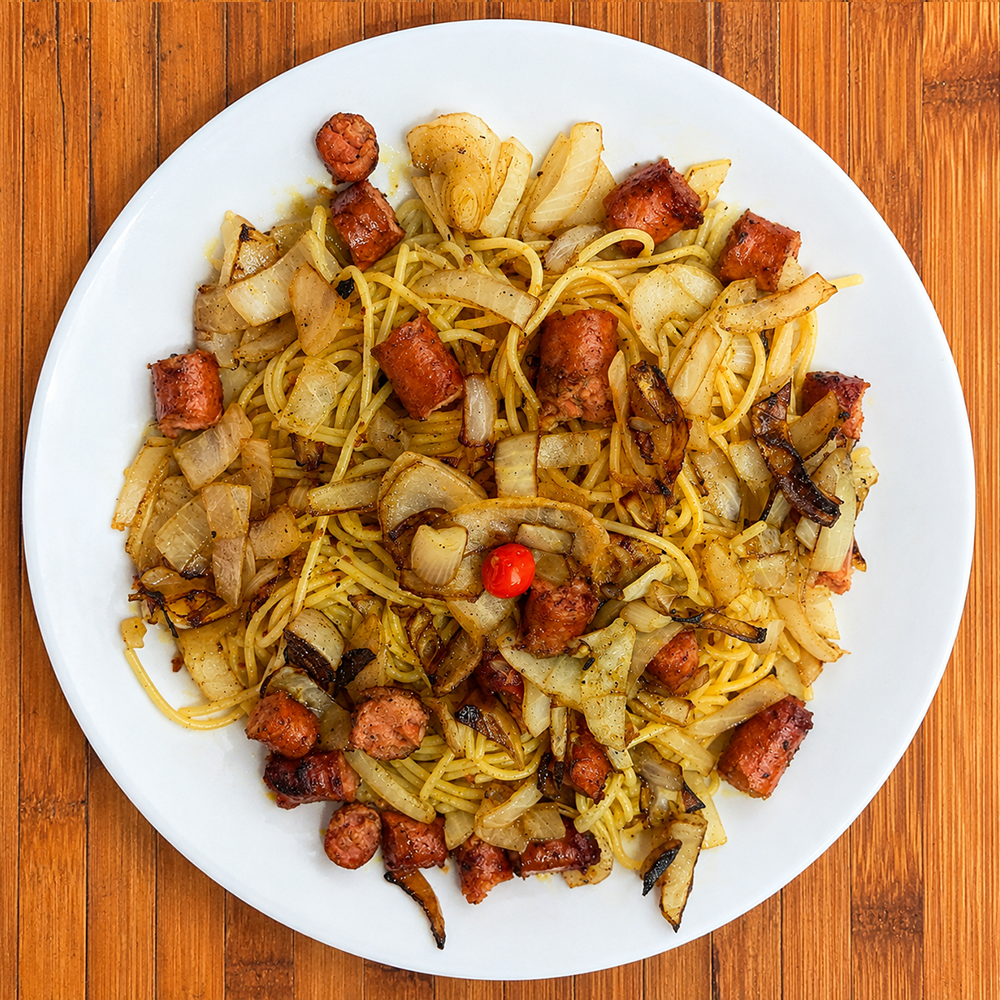
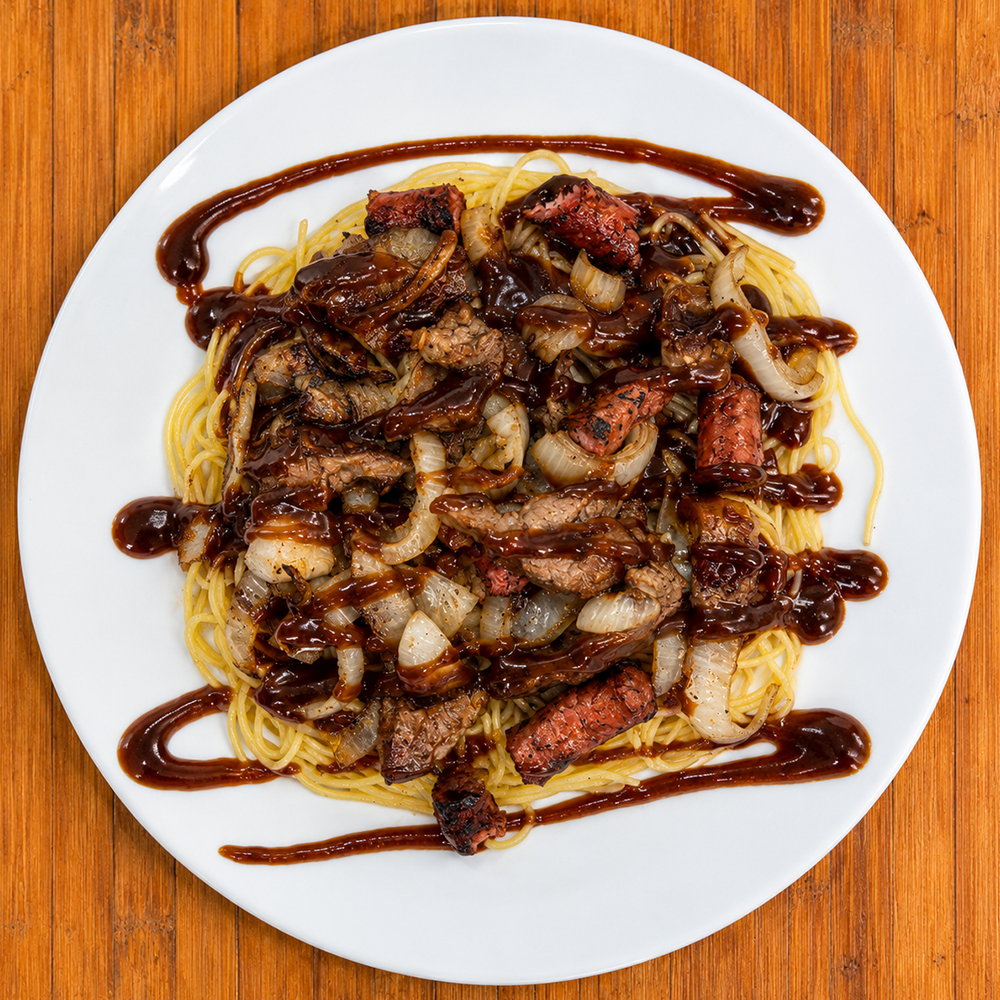
fix: Ajusting image and get some better css fixing style

diff --git a/index.html b/index.html
@@ -42,6 +42,7 @@
         <article class="card-produto">
             <div class="cabecalho-card">
                 <h3>Picadinho</h3>
+                <p>da Alegria</p>
                 <p><strong>R$28,00</strong></p>
             </div>
 
@@ -50,11 +51,10 @@
             </div>
 
             <div class="lista-combo">
-                <div class="linha-item">Macarrão alho óleo <span></span></div>
+                <div class="linha-item">Macarrão Acebolado <span></span></div>
                 <div class="linha-item">Linguiça de frango <span></span></div>
                 <div class="linha-item">Tiras de filé <span></span></div>
                 <div class="linha-item">Barbecue <span></span></div>
-                <div class="linha-item">Cebola <span></span></div>
             </div>
         </article>
 

diff --git a/css/style.css b/css/style.css
@@ -309,7 +309,6 @@ body {
     border-radius: 12px;
     padding: 10px;
     text-align: center;
-    margin-bottom: auto;
 }
 
 .cabecalho-card h3 {
@@ -356,7 +355,7 @@ body {
     font-size: 16px;
     font-weight: 900;
     text-transform: uppercase;
-    margin-bottom: 12px;
+    margin-bottom: auto;
     letter-spacing: .3px;
 }
 